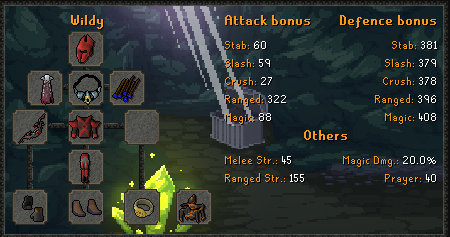
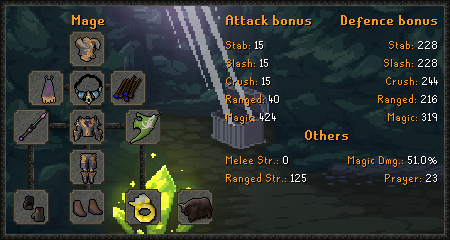
GitBook: [#187] Inferno page

diff --git a/minigames/inferno.md b/minigames/inferno.md
@@ -1,0 +1,49 @@
+# Inferno
+
+See [OSB Wiki](https://wiki.oldschool.gg/bosses/inferno) for general information.
+
+### BSO Specific Boosts
+
+Boosts for the Inferno are split into two categories: speed and death chance. Speed boosts          decrease the time required to complete the Inferno, and death chance boosts decrease your odds of dying before or during the Zuk fight.
+
+Required items and boost items must be **equipped** in the relevant setups.
+
+Boosts that are listed as negative are **good**. The - means they are either reducing the time required or your death chance. Positive numbers do the opposite, increasing your time or increasing your death chance.
+
+Death chance is calculated twice since you are able to die before reaching Zuk and during the Zuk fight. Hence Pre-Zuk death chance and Zuk death chance.
+
+#### Speed
+
+Equipping a Hellfire Bow in range (-7.5%) (Same as Twisted Bow)\
+Equipping a Virtus Book in mage (-7%)\
+Equipping the Gorajan Archer Outfit (-5%)\*\
+Equipping the Gorajan Occult Outfit (-5%)\*\
+Equipping an Ancestral/Virtus Robe Top and Ancestral Robe Bottom/Virtus Legs (-4%)\
+Equipping an Armadyl Chestplate/Pernix Body and Armadyl Chainskirt/Pernix Chaps (-3%)
+
+_\*Having the Gorajan outfit also gives you the corresponding Nex gear boost. Effectively Gorajan Occult is -9% and Gorajan Archer is -8%_
+
+_Note: Do not mix and match Armadyl with Pernix or Ancestral with Virtus gear. You must have the corresponding top and bottom in order to recieve the boost._
+
+#### Death
+
+Equipping a Divine Spirit Shield in range or mage (Pre-Zuk Death Chance -12%)\
+Equipping an Elysian Spirit Shield in range or mage (Pre-Zuk Death Chance -5%)\
+Equipping the Gorajan Archer Outfit (Pre-Zuk Death Chance -3.5%; Zuk Death Chance -3.5%)\
+Equipping the Gorajan Occult Outfit (Pre-Zuk Death Chance -3.5%; Zuk Death Chance -3.5%)
+
+_Note: You can have only one spirit shield on in either mage or range, equipping different spirit shields in both setups will not give you both boosts._
+
+### Sample Gear Setups
+
+The setups listed below are merely examples. You should choose your gear depending on your goal and progress in the inferno. Also refer to the OSB Wiki guide for boosts that are not unique to BSO.
+
+_Note: It is impossible to complete the inferno in under 8 attempts. While under this number, you should prioritize speed over survivability._
+
+#### Pre-Zuk Survivability
+
+![](<../.gitbook/assets/image (11).png>)![](<../.gitbook/assets/image (12).png>)
+
+#### Speed
+
+![](<../.gitbook/assets/image (13).png>)![](<../.gitbook/assets/image (10).png>)

diff --git a/SUMMARY.md b/SUMMARY.md
@@ -42,6 +42,7 @@
 
 ## Minigames
 
+* [Inferno](minigames/inferno.md)
 * [Emerged Zuk Inferno](minigames/emerged-zuk-inferno.md)
 * [Mad Marimbo's Monkey Rumble](minigames/mad-marimbos-monkey-rumble/README.md)
   * [Monkey Tame](minigames/mad-marimbos-monkey-rumble/monkey-tame.md)

diff --git a/bosses/chambers-of-xeric.md b/bosses/chambers-of-xeric.md
@@ -10,4 +10,4 @@ BGS, DWH, DHL, and charged blowpipe should be in your bank. Gorajan armor sets d
 
 ![Range Gear](../.gitbook/assets/coxbisrange.png)
 
-![Melee Gear](<../.gitbook/assets/image (10).png>)
+![Melee Gear](<../.gitbook/assets/image (10) (2).png>)
